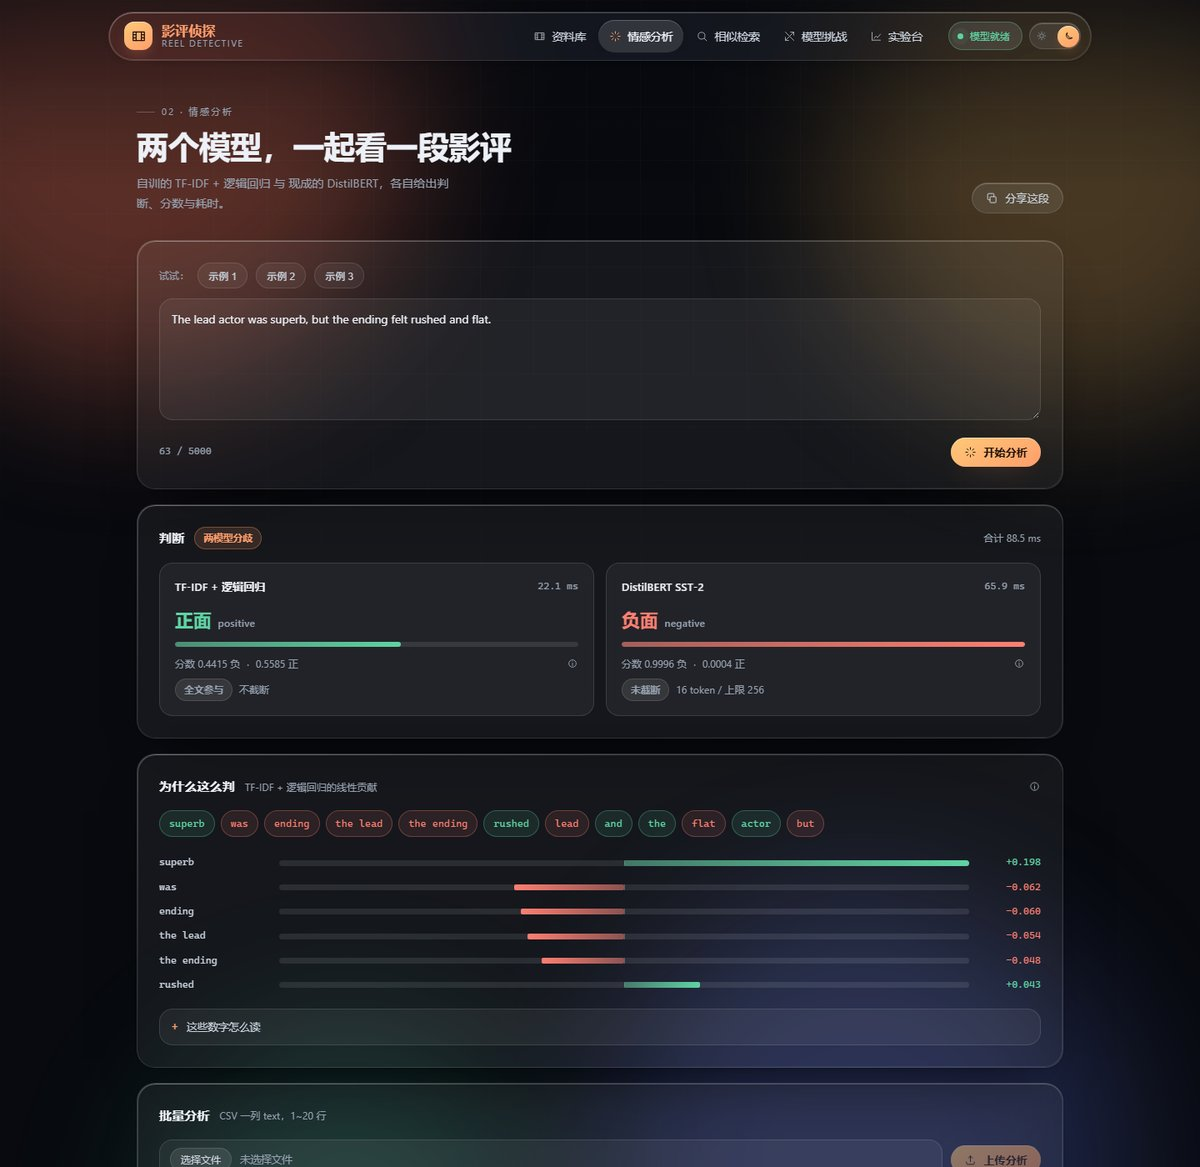
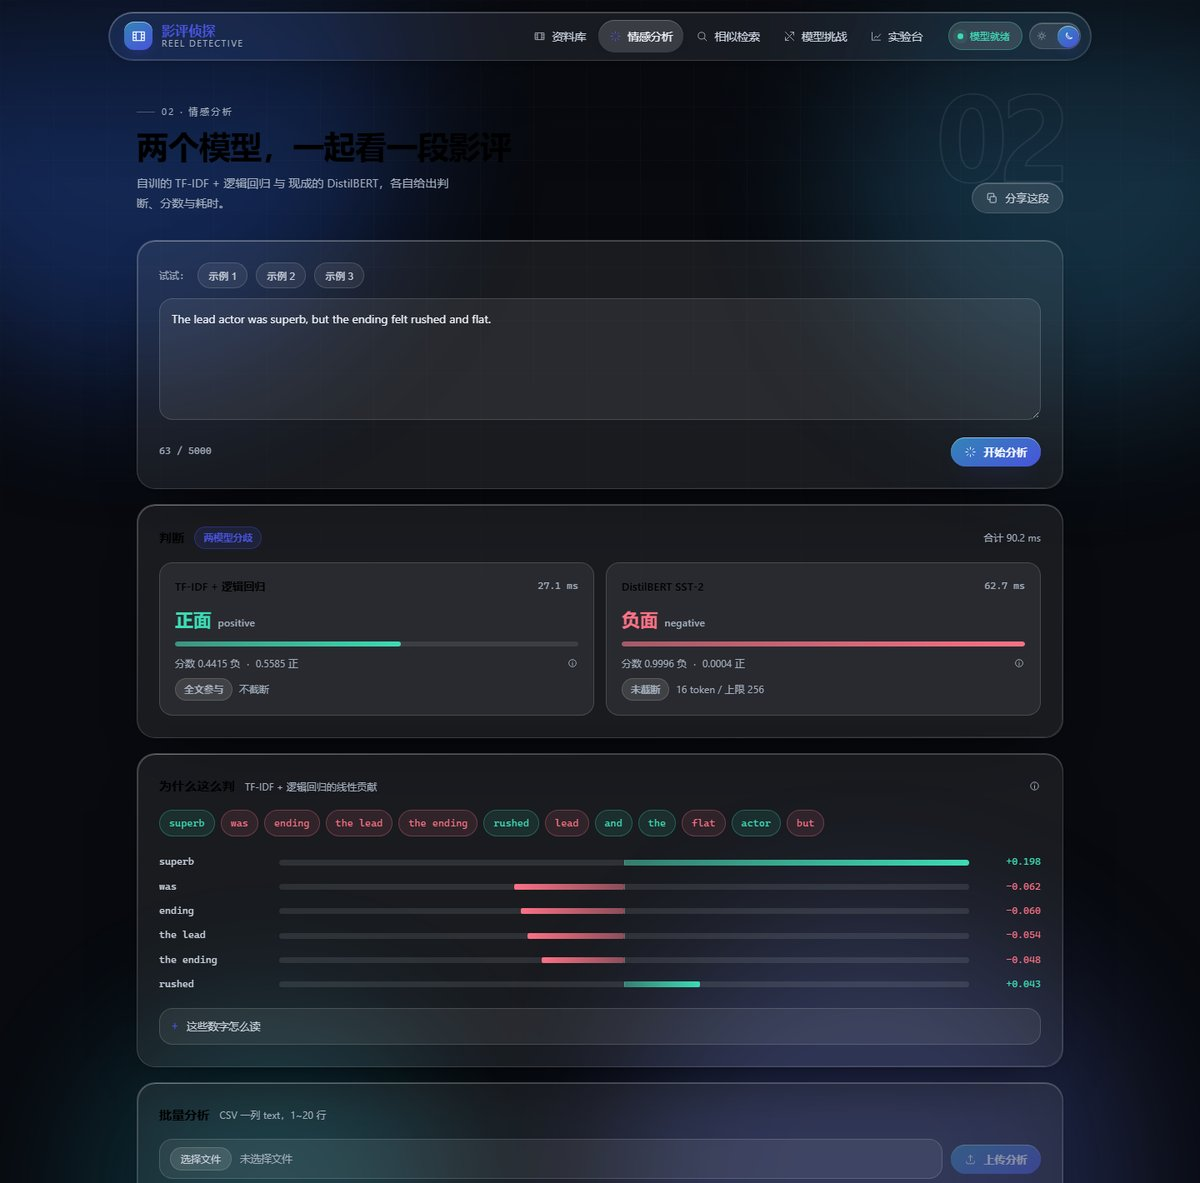
docs: 界面说明补配色与动效清单，配图换成蓝青版
README 增加「动效不是装饰」小节（每项动效对应什么作用）并更新配色说明；
AI_USAGE 记录三次改版的取舍与对比度修正；docs/images 七张截图全部换成蓝青配色版本。

diff --git a/README.md b/README.md
@@ -62,14 +62,30 @@
 界面没有套用后台模板，而是一套自己写的「液态玻璃」材质系统：
 
 - **玻璃**：面板是半透明 + `backdrop-filter` 背景模糊，边缘用一层渐变高光做出厚度感，
-  背后是四团缓慢漂移的暖色光斑（`--blob-*`），光斑透过滤镜成为面板的「背光」；
+  背后是四团缓慢漂移的冷色光斑（`--blob-*`），光斑透过滤镜成为面板的「背光」；
+- **配色**：蓝青冷调——深色是靛蓝 `#4953dd` → 蓝 `#3285b6`，浅色是青 `#17e7dd` → 蓝绿 `#0d8fa6`；
+  正面用薄荷绿、负面用玫红，两个标签不会撞色；
 - **明暗双主题**：右上角一颗滑动开关即可切换，默认跟随系统 `prefers-color-scheme`，
   选择记在 `localStorage`；也能用 URL 指定（`?theme=light`）方便分享某个主题下的画面；
 - **克制的字**：页面只保留一句引导文案，长解释（口径说明、抽样规则、运行环境、案例细节）
   收进「＋」折叠块或后台的标签页里，正文不再一篇一篇地铺；
-- **按钮**：胶囊形、带图标、只保留一个主操作（橘色渐变），其余都是安静的玻璃按钮。
+- **按钮**：胶囊形、带图标、只保留一个主操作（渐变实心），其余都是安静的玻璃按钮。
 
-整套样式集中在 `frontend/src/style.css`（约 1100 行），颜色全部是 CSS 变量：
+### 动效不是装饰
+
+每个动效都对应一个实际作用，并且全部遵守 `prefers-reduced-motion: reduce`（系统开了减少动效就全关）：
+
+| 动效 | 作用 |
+|---|---|
+| 指针跟随高光 | 鼠标在玻璃上移动时有一团光跟着走，提示「这块是可交互的玻璃」 |
+| 入场编排 | 瓷砖、卡片、列表依次浮起（60~400ms 阶梯），而不是整页一起出现 |
+| 数字滚动 | 1200、226.09、0.64 这类关键数字从 0 滚到目标值，落点更清楚 |
+| 计量条 / 相似度圆环 | 从 0 长到实际值，让「差多少」一眼可见 |
+| 主按钮扫光 + 按压缩放 | 点击前有预热、点击时有反馈 |
+| 主题切换圆形擦除 | 用 View Transitions API 从开关位置向外扩散，不支持的浏览器直接切换 |
+| 页头巨型编号水印 | `01`~`05` 描边数字，给统一栅格一点不对称 |
+
+整套样式集中在 `frontend/src/style.css`（约 1300 行），颜色全部是 CSS 变量：
 改主题只改 `html[data-theme='dark']` / `html[data-theme='light']` 两组变量里的 `--accent` 等值即可。
 没有引入 UI 框架，也没有外部字体或图标库（图标是自己画的 24×24 线性 SVG，见 `src/components/Icon.vue`），
 断网也能完整显示。
